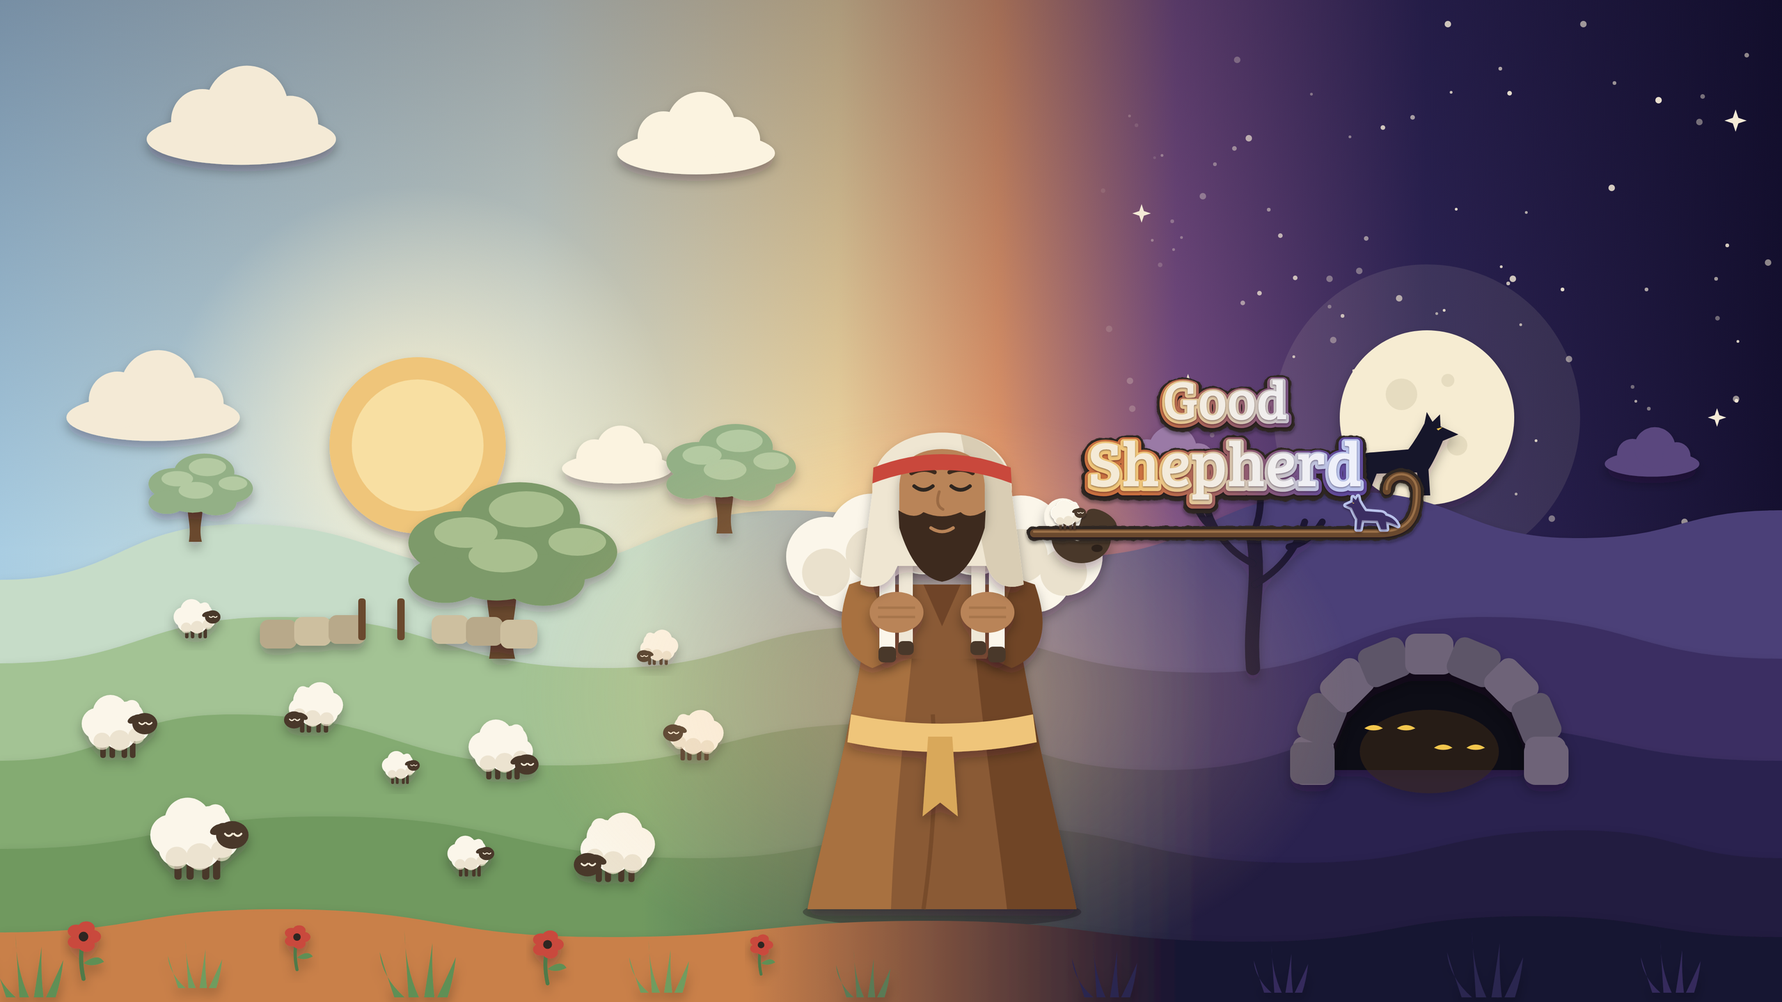
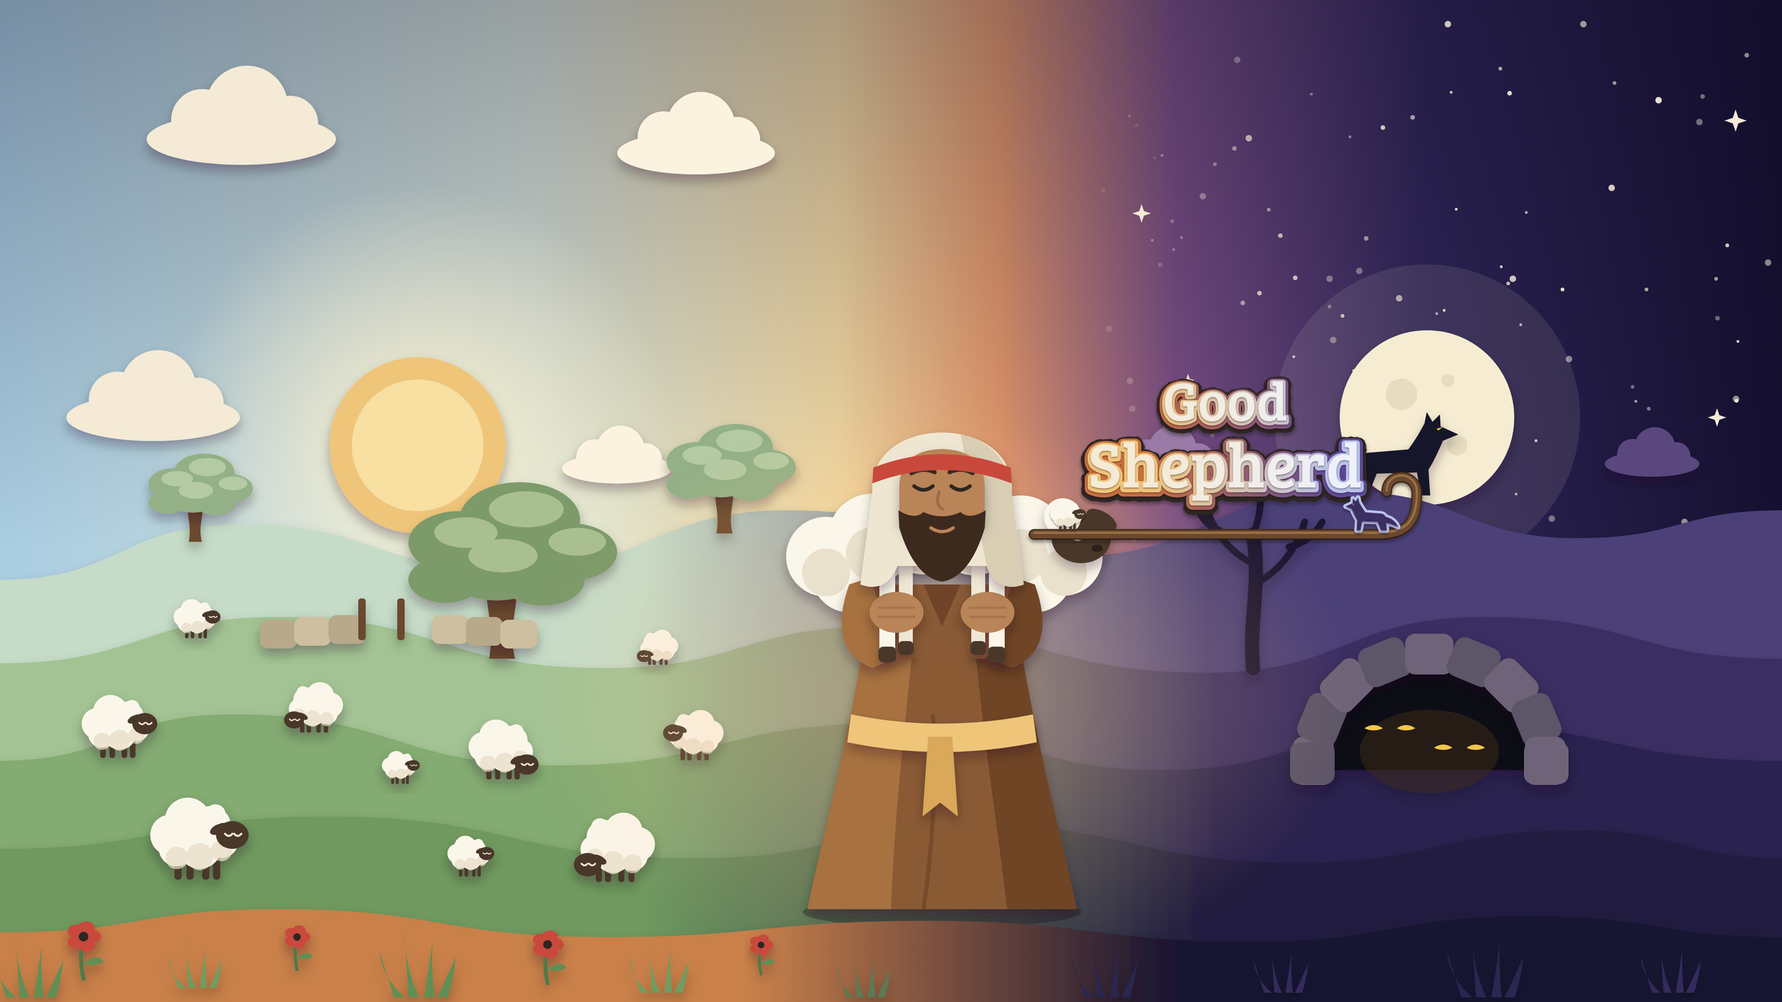
Press page: whole key art in the hero, current cards, clean staff edge on every capsule, wording
- Hero shows the full 16:9 key art (no crop); on phones the words sit under it.
- Logo staff on all capsules now has the clean dark-wood edge (no black outline).
- Five current cards, cut from the game, as a centred fan; cards screenshot refreshed.
- Capsule gallery shows each capsule whole.
- Wording: 'dungeon-crawler' without 'narrated', the narrator named on her own,
  'leave the ninety-nine to save the one', no 'never killed', developer is a solo
  indie developer from Canada.

Claude-Session: https://claude.ai/code/session_01VpcujKa2SduHoRcPjGQsic

Changed region(s): [[0.5625, 0.375, 0.8125, 0.5312]]

diff --git a/index.html b/index.html
@@ -4,13 +4,13 @@
   <meta charset="utf-8">
   <meta name="viewport" content="width=device-width, initial-scale=1">
   <title>Good Shepherd Press Kit | ArchiusDev</title>
-  <meta name="description" content="Official Good Shepherd press kit from ArchiusDev: a cozy shepherd sim by day and a narrated dungeon-crawler deckbuilder by night. Trailer, screenshots, key art, Steam capsules, logos, fact sheet and creator resources.">
+  <meta name="description" content="Official Good Shepherd press kit from ArchiusDev: a cozy shepherd sim by day and a dungeon-crawler deckbuilder by night, told by a narrator. Trailer, screenshots, key art, Steam capsules, logos, fact sheet and creator resources.">
   <meta name="theme-color" content="#dfe9f0">
   <link rel="canonical" href="https://cerlus.github.io/goodshepherd-press-media-hub/">
   <meta property="og:type" content="website">
   <meta property="og:site_name" content="Good Shepherd / Press & Media">
   <meta property="og:title" content="Good Shepherd Press Kit">
-  <meta property="og:description" content="Tend the flock by day. Go after the one by night. A cozy shepherd sim + narrated dungeon-crawler deckbuilder by ArchiusDev.">
+  <meta property="og:description" content="Tend the flock by day. Go after the one by night. A cozy shepherd sim + dungeon-crawler deckbuilder with a narrated story, by ArchiusDev.">
   <meta property="og:url" content="https://cerlus.github.io/goodshepherd-press-media-hub/">
   <meta property="og:image" content="https://cerlus.github.io/goodshepherd-press-media-hub/assets/branding/goodshepherd-key-art-1920x1080.png">
   <meta property="og:image:alt" content="Good Shepherd key art: a shepherd carrying a lamb on his shoulders, a sunlit flock on one side and a lamplit cave at night on the other">
@@ -20,7 +20,7 @@
   <link rel="apple-touch-icon" href="assets/branding/logo/app-icon-256.png">
   <link rel="stylesheet" href="styles.css">
   <script type="application/ld+json">
-  {"@context":"https://schema.org","@type":"VideoGame","name":"Good Shepherd","description":"A cozy first-person shepherd sim by day and a narrated grid dungeon-crawler deckbuilder by night.","genre":["Simulation","Deckbuilder","Dungeon crawler"],"gamePlatform":"PC","author":{"@type":"Organization","name":"ArchiusDev","url":"https://linktr.ee/archiusdev"},"image":"https://cerlus.github.io/goodshepherd-press-media-hub/assets/branding/goodshepherd-key-art-1920x1080.png"}
+  {"@context":"https://schema.org","@type":"VideoGame","name":"Good Shepherd","description":"A cozy first-person shepherd sim by day and a grid dungeon-crawler deckbuilder by night, with a narrated story.","genre":["Simulation","Deckbuilder","Dungeon crawler"],"gamePlatform":"PC","author":{"@type":"Organization","name":"ArchiusDev","url":"https://linktr.ee/archiusdev"},"image":"https://cerlus.github.io/goodshepherd-press-media-hub/assets/branding/goodshepherd-key-art-1920x1080.png"}
   </script>
 </head>
 <body>
@@ -34,10 +34,10 @@
 </nav>
 
 <header class="hero">
-  <img class="bg" src="assets/previews/key-art.jpg" alt="Good Shepherd key art: a shepherd with a lamb across his shoulders stands between a sunlit flock and a lamplit cave at night.">
+  <img class="bg" width="1920" height="1080" src="assets/previews/key-art-hero.jpg" alt="Good Shepherd key art: a shepherd with a lamb across his shoulders stands between a sunlit flock and a lamplit cave at night.">
   <div class="copy"><div class="shell">
     <p class="label">Press &amp; media kit · ArchiusDev</p>
-    <p><b>Tend the flock by day. Go after the one by night.</b><br>A cozy first-person shepherd sim and a narrated dungeon-crawler deckbuilder, in one game.</p>
+    <p><b>Tend the flock by day. Go after the one by night.</b><br>A cozy first-person shepherd sim and a dungeon-crawler deckbuilder in one game, with a narrator who tells the story as you play.</p>
     <div class="pills">
       <span class="pill gold">🐑 Steam Sheep Fest · Feb 4–8, 2027</span>
       <span class="pill">Coming Soon on Steam</span>
@@ -103,7 +103,8 @@
         <p class="label">Press and curators</p>
         <h3>What is it, in a sentence?</h3>
         <ul>
-          <li>A cozy shepherd sim by day and a narrated dungeon-crawler deckbuilder by night</li>
+          <li>A cozy shepherd sim by day and a dungeon-crawler deckbuilder by night</li>
+          <li>A narrator tells the story as you progress</li>
           <li>Every sheep you care for becomes a card when one goes missing</li>
           <li>Pitches at four lengths, a fact sheet, and one ZIP with everything</li>
         </ul>
@@ -118,7 +119,7 @@
     <div>
       <p class="label">The game</p>
       <h2>Two games that need each other.</h2>
-      <p class="lede">By day you tend a flock of named sheep in sunlit hills. By night one is missing, and you leave the ninety-nine to find it. Every bond you make in daylight becomes a card in the dark.</p>
+      <p class="lede">By day you tend a flock of named sheep in sunlit hills. By night one is missing, and you leave the ninety-nine to save the one. Every bond you make in daylight becomes a card in the dark.</p>
     </div>
     <div class="split">
       <div class="d"><p class="label">By day</p><ul><li>Name, feed and water your flock</li><li>Bind wounds, anoint with oil</li><li>The Call: sheep follow a voice they know</li><li>Gather oil, linen, hyssop, stones</li><li>Dress them up, or just hold one a while</li><li>Bring them home to the fold at dusk</li></ul></div>
@@ -133,7 +134,7 @@
     <h2>Care is power. No grinding, only love.</h2>
     <div class="grid" style="margin-top:28px">
       <div class="card feature"><h3><span class="num">1</span>Bonds become cards</h3><p>Every sheep that trusts you adds its own card to your night deck. Neglect the flock and you descend with a thin hand.</p></div>
-      <div class="card feature"><h3><span class="num">2</span>Leave the ninety-nine</h3><p>Each night is about one specific, named sheep: the one least bound to you.</p></div>
+      <div class="card feature"><h3><span class="num">2</span>Leave the ninety-nine to save the one</h3><p>Each night is about one specific, named sheep: the one least bound to you.</p></div>
       <div class="card feature"><h3><span class="num">3</span>Your voice</h3><p>The Call herds the flock by day and is a card by night. Sheep that know your voice follow it.</p></div>
       <div class="card feature"><h3><span class="num">4</span>The lamp is your clock</h3><p>Every step below burns oil. Run dry and the Valley of the Shadow closes in.</p></div>
       <div class="card feature"><h3><span class="num">5</span>One satchel, two worlds</h3><p>Oil spent anointing a sheep by day is light you won't have tonight.</p></div>
@@ -184,10 +185,10 @@
     <h2>Words you can paste.</h2>
     <div class="grid" style="margin-top:28px">
       <div class="card pitch"><button class="copy-btn" data-copy>Copy</button><p class="label">10 words</p><p>Tend your flock by day; descend into the dark for one.</p></div>
-      <div class="card pitch"><button class="copy-btn" data-copy>Copy</button><p class="label">25 words</p><p>A cozy shepherd sim by day and a narrated dungeon-crawler deckbuilder by night. Every sheep you care for becomes a card when one goes missing.</p></div>
+      <div class="card pitch"><button class="copy-btn" data-copy>Copy</button><p class="label">25 words</p><p>A cozy shepherd sim by day, a dungeon-crawler deckbuilder by night, and a narrator telling the story. Every sheep you tend becomes a card.</p></div>
       <div class="card pitch"><button class="copy-btn" data-copy>Copy</button><p class="label">50 words</p><p>By day, you tend a flock of named sheep in a sunlit pasture: feed them, water them, bind their wounds, call them home. By night, one goes missing, and you go after it into the dark: a first-person grid crawl and deckbuilder where every bond you made becomes a card.</p></div>
     </div>
-    <div class="card pitch" style="margin-top:22px"><button class="copy-btn" data-copy>Copy</button><p class="label">100 words</p><p>Good Shepherd is two games that need each other. By day it is a cozy first-person shepherd sim: you name your sheep, lead them to green pasture and still waters, anoint them with oil and bind their wounds. By night one of them goes missing, and you leave the ninety-nine to find it. The descent is a first-person grid crawler with turn-based deckbuilder combat, where every sheep that trusts you adds its own card and your lamp oil is your clock. A wry, warm narrator tells the whole thing like a tabletop game master. Care is power. There is no grinding, only love.</p></div>
+    <div class="card pitch" style="margin-top:22px"><button class="copy-btn" data-copy>Copy</button><p class="label">100 words</p><p>Good Shepherd is two games that need each other. By day it is a cozy first-person shepherd sim: you name your sheep, lead them to green pasture and still waters, anoint them with oil and bind their wounds. By night one of them goes missing, and you leave the ninety-nine to save the one. The descent is a first-person grid crawler with turn-based deckbuilder combat, where every sheep that trusts you adds its own card and your lamp oil is your clock. A wry, warm narrator tells the whole thing like a tabletop game master. Care is power. There is no grinding, only love.</p></div>
   </div>
 </section>
 
@@ -198,7 +199,7 @@
       <h2>Fact sheet</h2>
       <table class="facts">
         <tr><th>Title</th><td>Good Shepherd</td></tr>
-        <tr><th>Developer</th><td>ArchiusDev, a Ghanaian-Canadian solo indie developer (<i>Mancalero</i>, 2026)</td></tr>
+        <tr><th>Developer</th><td>ArchiusDev, a solo indie developer from Canada (<i>Mancalero</i>, 2026)</td></tr>
         <tr><th>Genre</th><td>Cozy first-person shepherd sim + roguelite grid dungeon crawler / deckbuilder</td></tr>
         <tr><th>Engine</th><td>Godot 4</td></tr>
         <tr><th>Platform</th><td>PC (Steam)</td></tr>
@@ -214,7 +215,7 @@
     </div>
     <div class="card">
       <p class="label">FAQ</p>
-      <h3>Can sheep die?</h3><p>No. Sheep can be lost and frightened, never killed. The night is a rescue, not a punishment.</p>
+      <h3>Is there a story?</h3><p>Yes. A narrator tells it as you go: she sets each new land, speaks when you meet something for the first time, and carries the tale from the first pasture to the last night.</p>
       <h3>Is it a religious game?</h3><p>It draws on the shepherd passages of the Bible (Psalm 23, John 10, Luke 15) and keeps them in the mechanics rather than in sermons. You don't need to share the faith to enjoy it.</p>
       <h3>Do I need to be good at deckbuilders?</h3><p>No. A gentle night setting gives more oil and longer enemy telegraphs.</p>
     </div>
@@ -288,7 +289,13 @@
       <a class="tile" href="assets/branding/steam/package-header-1414x464.png"><img loading="lazy" src="assets/previews/package.jpg" alt="Package header"><span>Package header<small>1414 × 464</small></span></a>
     </div>
     <h3 style="margin-top:56px">Paper-cut cards</h3>
-    <div class="cards"><img loading="lazy" src="assets/cards/card-rod.png" alt="Rod card: deal 6 damage"><img loading="lazy" src="assets/cards/card-bond.png" alt="Bramble's Trust bond card: draw 2, gain 1 energy"><img loading="lazy" src="assets/cards/card-staff.png" alt="Staff card: gain 5 block"></div>
+    <div class="cards">
+      <img loading="lazy" src="assets/cards/card-tide.png" alt="Tide card: a staff card that deals water damage to all">
+      <img loading="lazy" src="assets/cards/card-rod.png" alt="Rod card: deal 6 damage">
+      <img loading="lazy" src="assets/cards/card-bond.png" alt="Bramble's Trust, a bond card from a sheep: draw 2, gain 1 energy">
+      <img loading="lazy" src="assets/cards/card-staff.png" alt="Staff card: gain 5 block">
+      <img loading="lazy" src="assets/cards/card-kindle.png" alt="Kindle card: a staff card that deals fire damage and burns">
+    </div>
     <p class="fine">Screenshots and footage are from the development build and still changing. Key art and capsules are pre-release concept art.</p>
   </div>
 </section>
@@ -313,8 +320,8 @@
     <div class="card">
       <p class="label">Words to use</p>
       <ul class="words">
-        <li>cozy shepherd sim by day</li><li>narrated dungeon crawl by night</li><li>bonds become cards</li>
-        <li>leave the ninety-nine</li><li>the lamp is your clock</li><li>sheep are lost, never killed</li>
+        <li>cozy shepherd sim by day</li><li>dungeon crawl by night</li><li>bonds become cards</li>
+        <li>leave the ninety-nine to save the one</li><li>the lamp is your clock</li><li>a story told by a narrator</li>
         <li>a narrator at your table</li><li>paper-cut storybook world</li>
       </ul>
       <p class="label" style="margin-top:18px">Please avoid</p>

diff --git a/styles.css b/styles.css
@@ -66,7 +66,7 @@ body::before { content: ""; position: fixed; inset: 0 0 auto; height: env(safe-a
 .nav .spacer { flex: 1; }
 
 .hero { position: relative; color: #fffaf0; background: var(--night-deep); overflow: hidden; }
-.hero img.bg { width: 100%; height: min(72vh, 720px); min-height: 380px; object-fit: cover; object-position: 30% 50%; }
+.hero img.bg { display: block; width: 100%; height: auto; aspect-ratio: 16 / 9; }
 .hero .copy { position: absolute; inset: auto 0 0 0; padding-block: 110px 44px; background: linear-gradient(transparent, rgba(20, 17, 31, .88));
   padding-left: max(16px, env(safe-area-inset-left, 0px)); padding-right: max(16px, env(safe-area-inset-right, 0px)); }
 .hero .copy p { font-size: 19px; max-width: 46ch; text-shadow: 0 2px 6px rgba(0, 0, 0, .5); }
@@ -122,11 +122,13 @@ button:hover, .btn:hover { filter: brightness(1.15); }
 .tile span { padding: 10px 14px; font-size: 14px; font-weight: 700; }
 .tile span small { font-weight: 500; opacity: .7; display: block; }
 .tile:hover img { filter: brightness(1.08); }
-.cards { display: flex; gap: 18px; justify-content: center; flex-wrap: wrap; }
-.cards img { width: 170px; transition: transform .25s; filter: drop-shadow(0 10px 16px rgba(0, 0, 0, .25)); }
-.cards img:nth-child(1) { transform: rotate(-6deg) translateY(8px); }
-.cards img:nth-child(3) { transform: rotate(6deg) translateY(8px); }
-.cards img:hover { transform: translateY(-10px) scale(1.04); }
+.cards { display: flex; gap: 14px; justify-content: center; align-items: flex-end; flex-wrap: nowrap; margin: 34px auto 56px; max-width: 980px; padding: 0 12px; }
+.cards img { width: 19%; max-width: 180px; height: auto; transition: transform .25s; filter: drop-shadow(0 10px 16px rgba(0, 0, 0, .35)); }
+.cards img:nth-child(1) { transform: rotate(-6deg) translateY(16px); }
+.cards img:nth-child(2) { transform: rotate(-3deg) translateY(4px); }
+.cards img:nth-child(4) { transform: rotate(3deg) translateY(4px); }
+.cards img:nth-child(5) { transform: rotate(6deg) translateY(16px); }
+.cards img:hover { transform: translateY(-10px) scale(1.04); z-index: 2; position: relative; }
 .placeholder { border: 2px dashed var(--line); border-radius: 14px; padding: 26px; color: var(--fg-soft); text-align: center; }
 
 blockquote.narr { margin: 0; font: italic 500 26px/1.45 var(--body); color: var(--surface-fg); }
@@ -170,3 +172,9 @@ footer a { color: var(--lamp); }
 .gallery.shots .tile img { aspect-ratio: 16 / 9; object-fit: cover; width: 100%; height: auto; }
 .tile.wide img { aspect-ratio: auto; width: 100%; height: auto; }
 @media (max-width: 860px) { .watch, .doors { grid-template-columns: 1fr; } }
+
+/* the key art is shown whole (16:9), never cropped; on small screens the words sit under it */
+.hero { max-width: 1600px; margin-inline: auto; }
+@media (max-width: 980px) { .hero .copy { position: static; padding-block: 22px 26px; background: var(--night-deep); } }
+@media (max-width: 980px) { .strip-wrap { height: auto; padding-top: 18px; } .strip { transform: none; } }
+.gallery:not(.shots) .tile img { object-fit: contain; height: 170px; background: #171228; padding: 8px; }

diff --git a/tools/brand.py b/tools/brand.py
@@ -106,7 +106,7 @@ def paper_staff(x0, x1, y, s=1.0):
     """The crook lying on its side under the name, layered like the letters, its hook rising at
     the right; a sheep stands on its day end and a wolf on its night end, facing each other."""
     d = f"M{x0},{y} L{x1-120*s},{y} C{x1-10*s},{y} {x1},{y-70*s} {x1},{y-130*s} C{x1},{y-200*s} {x1-96*s},{y-200*s} {x1-96*s},{y-136*s}"
-    out = f'<g filter="url(#torn)"><path d="{d}" fill="none" stroke="{INK}" stroke-width="{46*s}" stroke-linecap="round" stroke-linejoin="round"/></g>'
+    out = f'<g filter="url(#lp)"><path d="{d}" fill="none" stroke="#3f2a18" stroke-width="{34*s}" stroke-linecap="round" stroke-linejoin="round"/></g>'
     out += f'<g filter="url(#lp2)"><path d="{d}" fill="none" stroke="{WOOD}" stroke-width="{26*s}" stroke-linecap="round" stroke-linejoin="round"/></g>'
     out += f'<path d="{d}" fill="none" stroke="#9a7048" stroke-width="{7*s}" stroke-linecap="round" stroke-linejoin="round" transform="translate(0,{-5*s})"/>'
     top = y - 13 * s

diff --git a/FACT_SHEET.md b/FACT_SHEET.md
@@ -8,7 +8,7 @@ _Last updated: 2026-11-24_
 
 - **Title:** Good Shepherd *(store title to confirm: "Good Shepherd" vs "GoodShepherd", see README)*
 - **Developer / publisher:** ArchiusDev (self-published)
-- **Developer profile:** Ghanaian-Canadian solo indie developer; previous game *Mancalero* (Steam, Nov 4 2026)
+- **Developer profile:** Solo indie developer from Canada; previous game *Mancalero* (Steam, Nov 4 2026)
 - **Genre:** Cozy first-person shepherd sim + roguelite deckbuilder dungeon crawl, told by a narrator
 - **Engine:** Godot 4
 - **Platforms:** PC (Steam); Windows first *(confirm macOS/Linux)*
@@ -32,13 +32,13 @@ Tend the flock by day. Go after the one by night.
 Tend your flock by day; descend into the dark for one.
 
 ### 25 words
-A cozy shepherd sim by day and a narrated dungeon-crawler deckbuilder by night. Every sheep you care for becomes a card when one goes missing.
+A cozy shepherd sim by day, a dungeon-crawler deckbuilder by night, and a narrator telling the story. Every sheep you tend becomes a card.
 
 ### 50 words
 By day, you tend a flock of named sheep in a sunlit pasture: feed them, water them, bind their wounds, call them home. By night, one goes missing, and you go after it into the dark: a first-person grid crawl and deckbuilder where every bond you made becomes a card.
 
 ### 100 words
-Good Shepherd is two games that need each other. By day it is a cozy first-person shepherd sim: you name your sheep, lead them to green pasture and still waters, anoint them with oil and bind their wounds. By night one of them goes missing, and you leave the ninety-nine to find it. The descent is a first-person grid crawler with turn-based deckbuilder combat, where every sheep that trusts you adds its own card and your lamp oil is your clock. A wry, warm narrator tells the whole thing like a tabletop game master. Care is power. There is no grinding, only love.
+Good Shepherd is two games that need each other. By day it is a cozy first-person shepherd sim: you name your sheep, lead them to green pasture and still waters, anoint them with oil and bind their wounds. By night one of them goes missing, and you leave the ninety-nine to save the one. The descent is a first-person grid crawler with turn-based deckbuilder combat, where every sheep that trusts you adds its own card and your lamp oil is your clock. A wry, warm narrator tells the whole thing like a tabletop game master. Care is power. There is no grinding, only love.
 
 ## Angle-specific pitches
 Use the one that matches the outlet. Same game, different front door.
@@ -51,7 +51,7 @@ Use the one that matches the outlet. Same game, different front door.
 
 ## Key features
 1. **Care is power.** Feeding, watering, anointing and binding wounds raise each sheep's Trust. At Trust 60 that sheep adds its own bond card to your night deck.
-2. **Leave the ninety-nine.** Every night is about one specific, named sheep, the one least bound to you.
+2. **Leave the ninety-nine to save the one.** Every night is about one specific, named sheep, the one least bound to you.
 3. **Your voice.** The Call herds the flock by day and is a card by night. Sheep that know your voice follow it.
 4. **The lamp is your clock.** Each step below burns oil. Run dry and you walk the Valley of the Shadow: vision shrinks and enemies strike first.
 5. **A narrator at the table.** A BG3-style storyteller voices both halves, sets each place, names the stakes, and jokes.
@@ -65,12 +65,12 @@ Use the one that matches the outlet. Same game, different front door.
 13. **Staffs that are alive in the hand.** Water, ember, vine, storm and bell: each from its own land, each with its own cards.
 
 ## Developer bio
-ArchiusDev is a Ghanaian-Canadian solo indie developer making thoughtful games that blend timeless forms with modern design. After *Mancalero* (a Mancala roguelike deckbuilder, Steam 2026), *Good Shepherd* pairs a cozy life sim with a narrated dungeon-crawler deckbuilder.
+ArchiusDev is a solo indie developer from Canada making thoughtful games that blend timeless forms with modern design. After *Mancalero* (a Mancala roguelike deckbuilder, Steam 2026), *Good Shepherd* pairs a cozy life sim with a dungeon-crawler deckbuilder, told by a narrator.
 
 ## FAQ answers
 **Is it a religious game?** It's inspired by the shepherd passages of the Bible (Psalm 23, John 10, Luke 15) and keeps them in the mechanics rather than in sermons. You don't need to share the faith to enjoy it, and players who do share it will recognise it everywhere.
 
-**Can sheep die?** No. Sheep can be lost and frightened, never killed. The night is a rescue, not a punishment.
+**Is there a story?** Yes. A narrator tells it as you go: she sets each new land, speaks when you meet something for the first time, and carries the tale from the first pasture to the last night.
 
 **Do I have to be good at deckbuilders?** No. A gentle night setting gives more oil and longer enemy telegraphs. Deckbuilder players can take a "rest day" to skip chores.
 

diff --git a/README.md b/README.md
@@ -1,6 +1,6 @@
 # Good Shepherd Press & Media Hub
 
-Public press kit for *Good Shepherd* by ArchiusDev: a cozy shepherd sim by day and a narrated dungeon-crawler deckbuilder by night. Target: Steam Sheep Fest, Feb 4–8 2027.
+Public press kit for *Good Shepherd* by ArchiusDev: a cozy shepherd sim by day and a dungeon-crawler deckbuilder by night, told by a narrator. Target: Steam Sheep Fest, Feb 4–8 2027.
 
 Live: https://cerlus.github.io/goodshepherd-press-media-hub/
 
